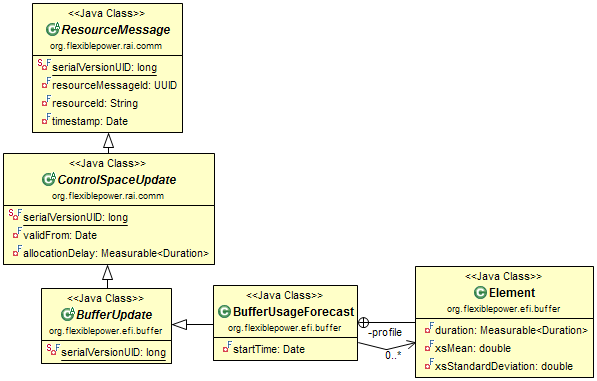
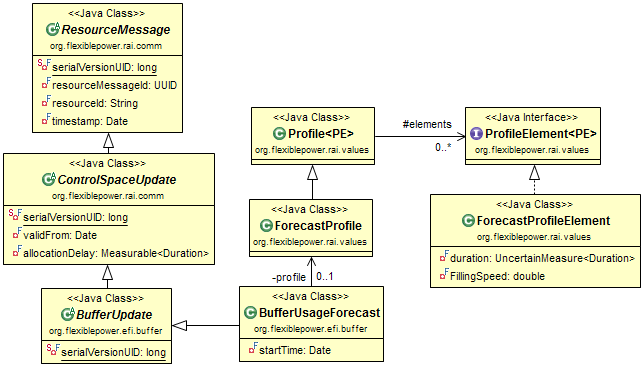
Changes to BufferUsageForecast to bring it in line with the generic profile construction.

diff --git a/flexiblepower.api.efi/src/org/flexiblepower/efi/buffer/BufferUsageForecast.java b/flexiblepower.api.efi/src/org/flexiblepower/efi/buffer/BufferUsageForecast.java
@@ -5,35 +5,21 @@ import java.util.Date;
 import javax.measure.Measurable;
 import javax.measure.quantity.Duration;
 
+import org.flexiblepower.rai.values.ForecastProfile;
+
 public class BufferUsageForecast extends BufferUpdate {
 
-    // TODO Hier ben ik nog niet happy mee...
-
     private final Date startTime;
-    private final Element[] profile;
+    private final ForecastProfile profile;
 
     public BufferUsageForecast(String resourceId,
                                Date timestamp,
                                Date validFrom,
                                Measurable<Duration> allocationDelay,
                                Date startTime,
-                               Element[] profile) {
+                               ForecastProfile profile) {
         super(resourceId, timestamp, validFrom, allocationDelay);
         this.startTime = startTime;
         this.profile = profile;
     }
-
-    public static class Element {
-        private final Measurable<Duration> duration = null;
-        private final double xsMean;
-        private final double xsStandardDeviation;
-
-        public Element(double xsMean, double xsStandardDeviation) {
-            super();
-            this.xsMean = xsMean;
-            this.xsStandardDeviation = xsStandardDeviation;
-        }
-
-    }
-
 }

diff --git a/flexiblepower.api/src/org/flexiblepower/rai/values/ForecastProfileElement.java b/flexiblepower.api/src/org/flexiblepower/rai/values/ForecastProfileElement.java
@@ -1,0 +1,29 @@
+package org.flexiblepower.rai.values;
+
+import javax.measure.Measurable;
+import javax.measure.quantity.Duration;
+
+public class ForecastProfileElement implements ProfileElement<ForecastProfileElement> {
+
+    private final UncertainMeasure<Duration> duration;
+    private final double FillingSpeed;
+
+    public ForecastProfileElement(UncertainMeasure<Duration> duration, double fillingSpeed) {
+        super();
+        this.duration = duration;
+        FillingSpeed = fillingSpeed;
+    }
+
+    @Override
+    public Measurable getDuration() {
+        // TODO Auto-generated method stub
+        return null;
+    }
+
+    @Override
+    public ForecastProfileElement subProfile(Measurable offset, Measurable duration) {
+        // TODO Auto-generated method stub
+        return null;
+    }
+
+}

diff --git a/flexiblepower.api/src/org/flexiblepower/rai/values/ForecastProfile.java b/flexiblepower.api/src/org/flexiblepower/rai/values/ForecastProfile.java
@@ -1,0 +1,10 @@
+package org.flexiblepower.rai.values;
+
+public class ForecastProfile extends Profile<ForecastProfileElement> {
+
+    public ForecastProfile(ForecastProfileElement[] elements) {
+        super(elements);
+        // TODO Auto-generated constructor stub
+    }
+
+}
